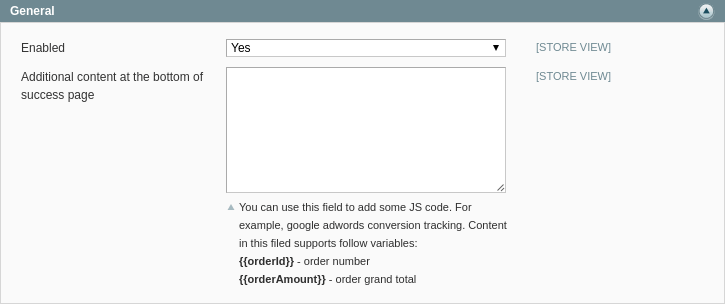
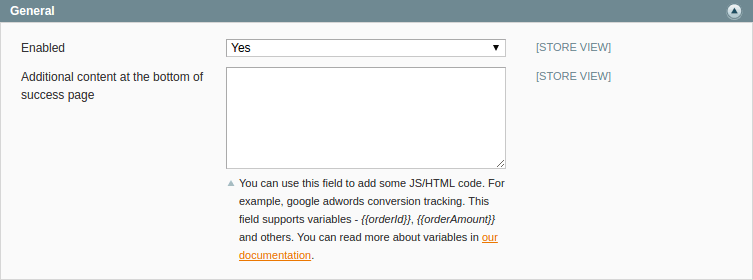
checkout success for M1 update

diff --git a/m1/extensions/checkout-success/backend/index.md b/m1/extensions/checkout-success/backend/index.md
@@ -8,8 +8,8 @@ category: Checkout Success
 
 # Extension configuration
 
-In order to change general extension settings, go to `System` > `Configuration`
-> `TM Checkout` section > `Success Page`.
+In order to change general extension settings, go to `System` ➔ `Configuration`
+➔ `TM Checkout` section ➔ `Success Page`.
 
 Checkout Success Page settings have three sections.
 
@@ -21,7 +21,21 @@ You can enable or disable extension in this section.
 
 Field `Additional content at the bottom of success page` allows you to insert
 on checkout success page any HTML or JS code. This field can be very usefull
-if you have to add Google Adwords conversion code.
+if you have to add Google Adwords conversion code. This field allows to use
+variables:
+
+| Variable                                  | Description                     |
+|-------------------------------------------|---------------------------------|
+| `{% raw %}{{orderId}}{% endraw %}`        | Order number                    |
+| `{% raw %}{{orderAmount}}{% endraw %}`    | Order grand total               |
+| `{% raw %}{{currency}}{% endraw %}`       | Order currency                  |
+| `{% raw %}{{currencySymbol}}{% endraw %}` | Order currency symbol           |
+| `{% raw %}{{customerEmail}}{% endraw %}`  | Email of customer who placed an order |
+| `{% raw %}{{customerId}}{% endraw %}`     | Id of customer who placed an order |
+| `{% raw %}{{paymentCode}}{% endraw %}`    | Code of payment method for an order |
+| `{% raw %}{{paymentTitle}}{% endraw %}`   | Name of payment method for an order |
+| `{% raw %}{{shippingCode}}{% endraw %}`   | Code of shipping method for an order |
+| `{% raw %}{{shippingTitle}}{% endraw %}`  | Name of shipping method for an order |
 
 ### Mockup
 

diff --git a/m1/extensions/checkout-success/changelog.md b/m1/extensions/checkout-success/changelog.md
@@ -8,18 +8,30 @@ category: Checkout Success
 
 # Changelog
 
+### Version 2.0.3
+
+ -  New variables in bottom HTML (customer email, currency, payment method and
+    other)
+ -  Send customer an email after he registered via quick registration form on
+    checkout success page
+ -  Improved styles of mockup section in Magento Admin (based on styles of
+    Chosen library)
+ -  Warning in Magento Admin if connection is insecure (it can cause problems
+    with preview feature)
+ -  Few translation fixes
+
 ### Version 2.0.2
 
-- Improved styles for mockup section in backend
-- Added missing translations
+ -  Improved styles for mockup section in backend
+ -  Added missing translations
 
 ### Version 2.0.1
 
-- Success page button colors imported from firecheckout page
-- Added store ids to the cms block titles in configration
-- Mixed content error fixed at backend configuration
-- Mixed content error fixed at frontend "Create Account" block
-- Fixed compatibility with php 5.3
+ -  Success page button colors imported from firecheckout page
+ -  Added store ids to the cms block titles in configration
+ -  Mixed content error fixed at backend configuration
+ -  Mixed content error fixed at frontend "Create Account" block
+ -  Fixed compatibility with php 5.3
 
 ### Version 2.0.0
 
